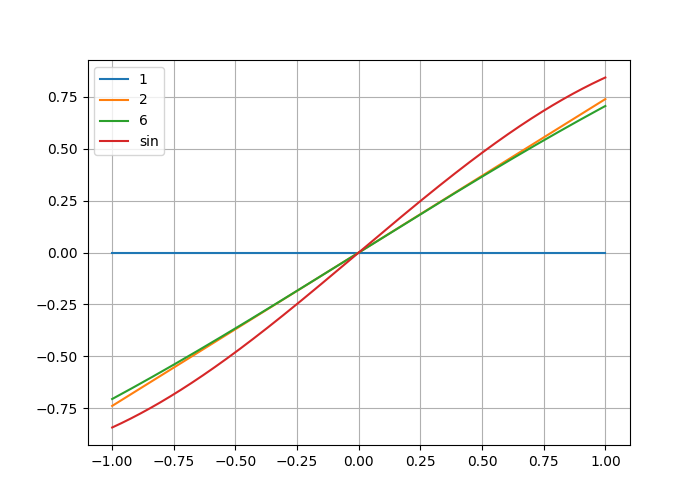
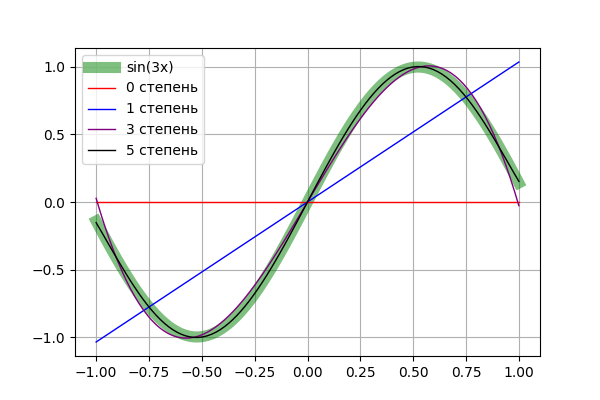
leendre polynomials

diff --git a/LU/matrix.hpp b/LU/matrix.hpp
@@ -1,0 +1,172 @@
+#ifndef HEADER_MATRIX_HPP_INCLUDED
+#define HEADER_MATRIX_HPP_INCLUDED
+
+#include <iostream>
+#include <iomanip>
+#include <vector>
+
+template <typename T>
+class Matrix : private std::vector<T>
+{
+public:
+    Matrix (const Matrix& other);
+    Matrix (unsigned height = 0, unsigned width = 0);
+    Matrix (unsigned height, unsigned width, const T& element);
+    Matrix (unsigned height, unsigned width, T&& element);
+    T &at(unsigned y, unsigned x);
+    void fill (const T& element);
+    void setHeight (unsigned height);
+    void setWidth (unsigned width);
+    void setSize (unsigned height, unsigned width);
+    unsigned getHeight () const;
+    unsigned getWidth () const;
+
+    // Get iteration abilities from vector
+    using std::vector<T>::begin;
+    using std::vector<T>::end;
+    using std::vector<T>::rbegin;
+    using std::vector<T>::rend;
+    using std::vector<T>::cbegin;
+    using std::vector<T>::cend;
+    using std::vector<T>::crbegin;
+    using std::vector<T>::crend;
+
+    // Get element management from vector
+    using std::vector<T>::clear;
+    using std::vector<T>::swap;
+
+protected:
+    bool isInRange (unsigned x, unsigned y) const;
+private:
+    unsigned height_, width_;
+
+    friend std::ostream & operator << (std::ostream & ostr, Matrix & M)
+    {
+        ostr << "Matrix height: " << M.getHeight() << ", width: " << M.getWidth() << std::endl;
+        for (unsigned i = 0; i < M.getHeight(); i++) {
+            ostr << "        ";
+            for (unsigned j = 0; j < M.getWidth(); j++)
+                ostr << std::setw(4) << M.at(i, j) << " ";
+            ostr << std::endl;
+        }
+        return ostr;
+    }
+    
+    Matrix< T > & operator = (const Matrix< T > Other) const
+    {
+        std::vector<T>::operator =(Other);
+        width_ = Other.width_;
+        height_ = Other.height_;
+    }
+
+    Matrix< T > & operator = (const Matrix< T > & Other) const
+    {
+        std::vector<T>::operator =(Other);
+        width_ = Other.width_;
+        height_ = Other.height_;
+    }
+
+    Matrix< T > & operator = (const Matrix< T > && Other) const
+    {
+        std::vector<T>::operator =(Other);
+        width_ = Other.width_;
+        height_ = Other.height_;
+    }
+};
+
+template <typename T>
+Matrix<T>::Matrix(const Matrix& other) :
+    std::vector<T>(other), height_(other.height_), width_(other.width_)
+{
+}
+
+template <typename T>
+Matrix<T>::Matrix (unsigned height, unsigned width):
+    std::vector<T>(height * width, T()), height_ (height), width_ (width)
+{
+
+}
+
+template <typename T>
+Matrix<T>::Matrix (unsigned height, unsigned width, const T &element):
+    std::vector<T>(height * width, T()), height_ (height), width_ (width)
+{
+    
+}
+
+template <typename T>
+Matrix<T>::Matrix (unsigned height, unsigned width, T&& element):
+    std::vector<T>(height * width, element), height_ (height), width_ (width)
+{
+
+}
+
+template <typename T>
+T &Matrix<T>::at(unsigned y, unsigned x)
+{
+    return std::vector<T>::at(y * width_ + x);
+}
+
+
+template <typename T>
+bool Matrix<T>::isInRange(unsigned x, unsigned y) const
+{
+    return ((x < height_) && (y < width_));
+}
+
+template <typename T>
+void Matrix<T>::fill(const T &element)
+{
+    std::fill(std::vector<T>::begin(), std::vector<T>::end(), element);
+}
+
+template <typename T>
+unsigned Matrix<T>::getHeight() const
+{
+    return height_;
+}
+
+template <typename T>
+unsigned Matrix<T>::getWidth() const
+{
+    return width_;
+}
+
+template <typename T>
+void Matrix<T>::setHeight (unsigned height)
+{
+    setSize(height, width_);
+}
+
+template <typename T>
+void Matrix<T>::setWidth(unsigned width)
+{
+    setSize(height_, width);
+}
+
+template <typename T>
+void Matrix<T>::setSize(unsigned height, unsigned width)
+{
+    if (height == height_ && width == width_)
+        return;
+    
+    unsigned lWidth = width_;
+    unsigned lHeight = height_;
+    Matrix< T > buffer(*this);
+
+    width_ = width;
+    height_ = height;
+
+    std::vector<T>::resize(height_ * width_);
+    std::fill(std::vector<T>::begin(), std::vector<T>::end(), T());
+
+    for (unsigned i = 0; i < std::min(lHeight, height_); i++)
+        for (unsigned j = 0; j < std::min(lWidth, width_); j++)
+            at(i, j) = buffer.at(i, j);
+}
+
+
+
+#endif // MATRIX_HPP
+
+

diff --git a/slau2/legendre.py b/slau2/legendre.py
@@ -7,11 +7,16 @@ import matplotlib.pyplot as plt
 import scipy.integrate
 
 from pylab import rcParams
-rcParams['figure.figsize'] = 7,5
+rcParams['figure.figsize'] = 6,4
 
+# Приближаемая функция
+def approx(x):
+    return np.sin(x * 3) 
 
-N = 10
+# Размер определяемого базиса
+N = 15
 
+# Построение базиса из полиномов Лежандра
 legendre_polynomials = []
 
 legendre_polynomials.append(np.polynomial.Polynomial([1,]))
@@ -23,34 +28,38 @@ for k in range(2, N + 1):
         (k - 1) / (k) * legendre_polynomials[k - 2]
        )
 
+# Нормировка полиномов к 1 по L_2[-1, 1]
 for k in range(N + 1):
     legendre_polynomials[k] /= math.sqrt(2 / (2 * k + 1))
 
-
-af = lambda x: legendre_polynomials[9](x) * legendre_polynomials[9](x)
-
-
-print(scipy.integrate.quad(af, -1, 1))
-
+# Функция, интегрируемая по -1, 1 для определения args[0] - 
+# компоненты по построенному базису
 def f(x, *args):
     global legendre_polynomials
-    return legendre_polynomials[args[0]].__call__(x) * np.sin(x)
+    return legendre_polynomials[args[0]].__call__(x) * approx(x)
+
+# Скалярные произведения апроксимируемой функции на базисные векторы
+legendre_coefficients = [ scipy.integrate.quad(f, -1, 1, args=i)[0] for i in range(N + 1) ]
 
 
-
-
+# Построение графика для некоторых степеней
 fig = plt.figure()
 ax = fig.add_subplot(111)
+l = np.linspace( -1, 1, 100 )
+ax.plot( l, approx(l), label='sin(3x)', linewidth=8, color='green', alpha=0.5 )
 
-for k in [1, 2, 6]:
-    legendre_coefficients = [ scipy.integrate.quad(f, -1, 1, args=i)[0] for i in range(k) ]
-    result_polynomial = np.polynomial.Polynomial(legendre_coefficients)
+color = {1:'red', 2:'blue', 4:'purple', 6:'black'}
 
+# В частности для 0, 1, 3 и 5
+for k in [1,2,4,6]:
+    result_polynomial =  np.polynomial.Polynomial([0])
+    for i in range(k):
+        result_polynomial += legendre_polynomials[i] * legendre_coefficients[i]
 
-    l = np.linspace( -1, 1, 1000 )
-    ax.plot( l, result_polynomial(l), label=str(k) )
     
-ax.plot( l, np.sin(l), label='sin' )
+    ax.plot( l, result_polynomial(l), label=str(k - 1)+' степень', linewidth=1, c=color[k] )
+    
+
 ax.grid()
 ax.legend()
 

diff --git a/LU/LU.py b/LU/LU.py
@@ -1,0 +1,77 @@
+import numpy as np
+import math
+import os
+import sys
+
+import decimal
+decimal.getcontext().prec = 80
+
+N = 5
+lmbd = 0.01
+h = 2 * np.pi / N
+
+K_generator =   lambda m, n:    h ** 2 * np.abs(n - m)
+f =             lambda x:       (1 + 2 * lmbd) * np.cos(x / 2) ** 2 - lmbd * (x ** 2 + np.pi ** 2) / 2
+F_generator =   lambda n:      f(-np.pi + (n - 0.5) * h)     
+
+A = np.identity(N)
+for i in range(N):
+    for j in range(N):
+        A[i][j] -= lmbd * K_generator(i + 1, j + 1)
+        
+F = np.matrix([F_generator(n) for n in range(1, N + 1)]).T
+
+A = np.matrix([ [ decimal.Decimal(A[i, j]) for j in range(N) ] for i in range(N) ])
+F = np.matrix([ [ decimal.Decimal(F[i, j]) for j in range(1) ] for i in range(N) ])
+
+
+print('Матрица системы:')
+print(A)
+print('Столбец из правой части:')
+print(F)
+print('-' * 80)
+
+
+L = np.matrix([ [ decimal.Decimal(0) for j in range(N) ] for i in range(N) ])
+U = np.matrix([ [ decimal.Decimal(0) for j in range(N) ] for i in range(N) ])
+
+# LU decompositio
+for j in range(N):
+    U[0, j] = A[0, j]
+    L[j, 0] = A[j, 0] / U[0, 0]
+
+for i in range(1, N):
+    for j in range(i, N):
+        
+        su = decimal.Decimal(0)
+        for k in range(0, i):
+            su += L[i, k] * U[k, j]
+        U[i, j] = A[i, j] - su
+
+        su = decimal.Decimal(0)
+        for k in range(0, i):
+            su += L[j, k] * U[k, i]
+        L[j, i] = decimal.Decimal(1) / U[i, i] * (A[j, i] - su)
+        
+print('Матрица L:')
+print(L)
+print('Матрица U:')
+print(U)
+print('-' * 80)
+print('Отклонение LU от A по норме Фробениуса: ', np.linalg.norm(L * U - A, ord='fro'))
+print('-' * 80)
+
+
+solution = np.matrix([ [ decimal.Decimal(0) for j in range(1) ] for i in range(N) ])
+
+F_tmp = F[:]
+
+for i in range(0, N):
+    for j in range(0, i):
+        F_tmp[i, 0] -= solution[j, 0] * L[i, j]
+    solution[i, 0] = F_tmp[i, 0] / L[i, i]
+    
+print(L * solution - F)
+
+
+

diff --git a/LU/decimal_LU.py b/LU/decimal_LU.py
@@ -21,7 +21,7 @@ def generateA():
         for j in range(N):
             A[i][j] -= lmbd * K_generator(i + 1, j + 1)
     
-    return A
+    return np.matrix(A)
 
 # Создание столбца F
 def generateF():
@@ -105,11 +105,14 @@ print('-' * 80)
 solution = L_solve(L, F)
 print('Решение системы Lx = F:')
 print(solution)
-print('-' * 80)
 
 solution = U_solve(U, solution)
 print('Решение системы Uy = x (совпадает с решением изначальной системы):')
 print(solution)
+
+err = solution - A.I * F
+print('y - A^{-1}*F, вычисленное для проверки:')
+print(err)
 print('-' * 80)
 
 

diff --git a/LU/LU.cpp b/LU/LU.cpp
@@ -1,0 +1,32 @@
+#include <iostream>
+#include <cstdio>
+#include <cstdlib>
+#include <cmath>
+
+#include <fstream>
+#include <iomanip>
+#include <vector>
+#include <iterator>
+#include <algorithm>
+#include <functional>
+#include <numeric>
+
+#include <boost/multiprecision/cpp_dec_float.hpp>
+#include <boost/multiprecision/float128.hpp>
+
+#include "matrix.hpp"
+
+
+typedef boost::multiprecision::cpp_dec_float_100 lfloat;
+
+int main( int argc, char** argv, char** env ) {
+
+	lfloat lambda = 0.01;
+	const int N = 100;
+
+    std::function< lfloat( int, int ) > K_generator = []( int ) -> lfloat {};
+
+
+
+	return 0;
+}
